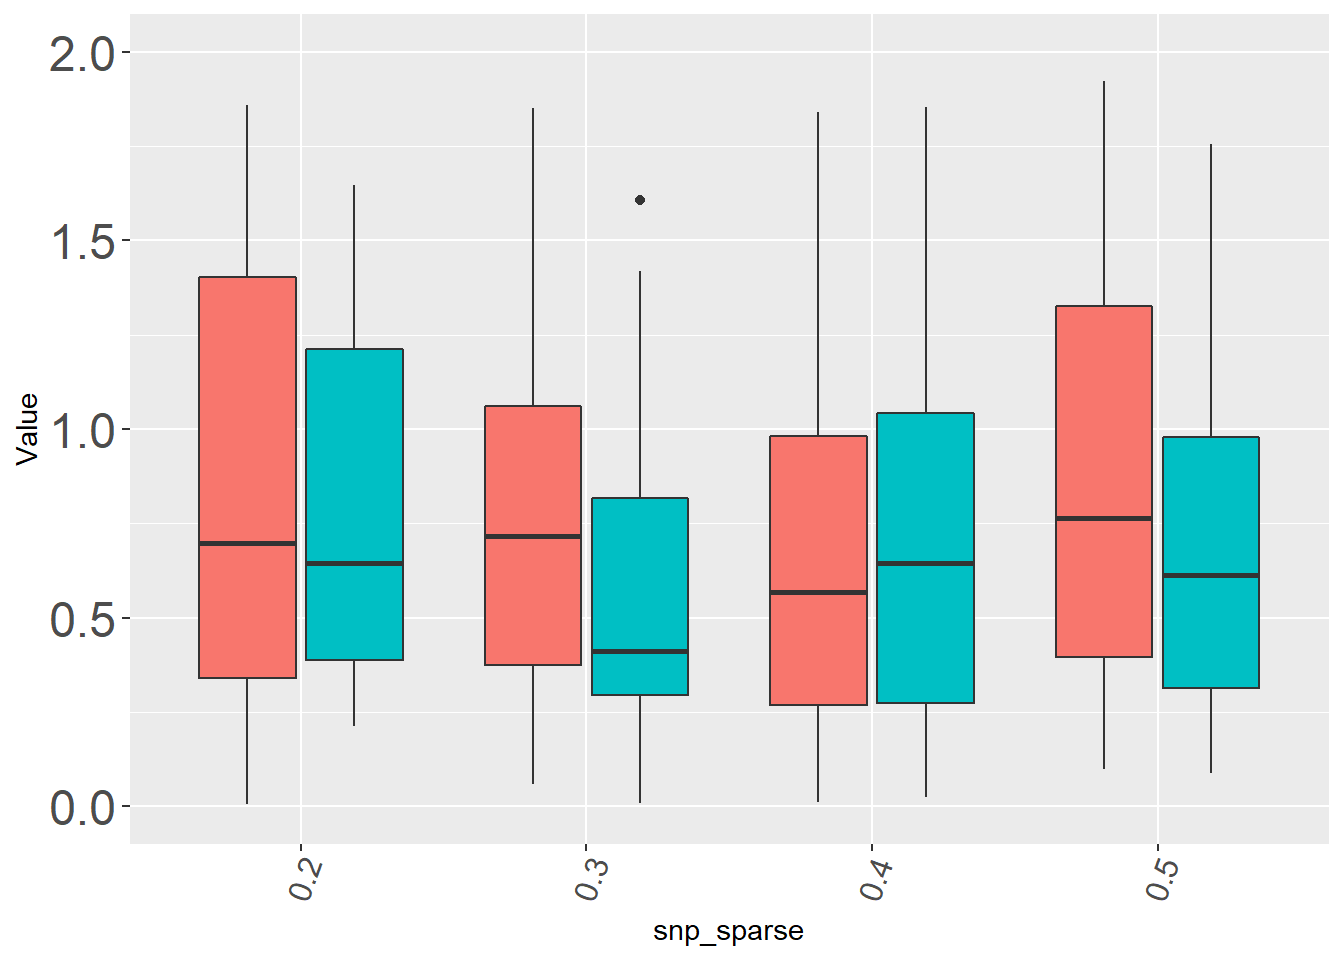
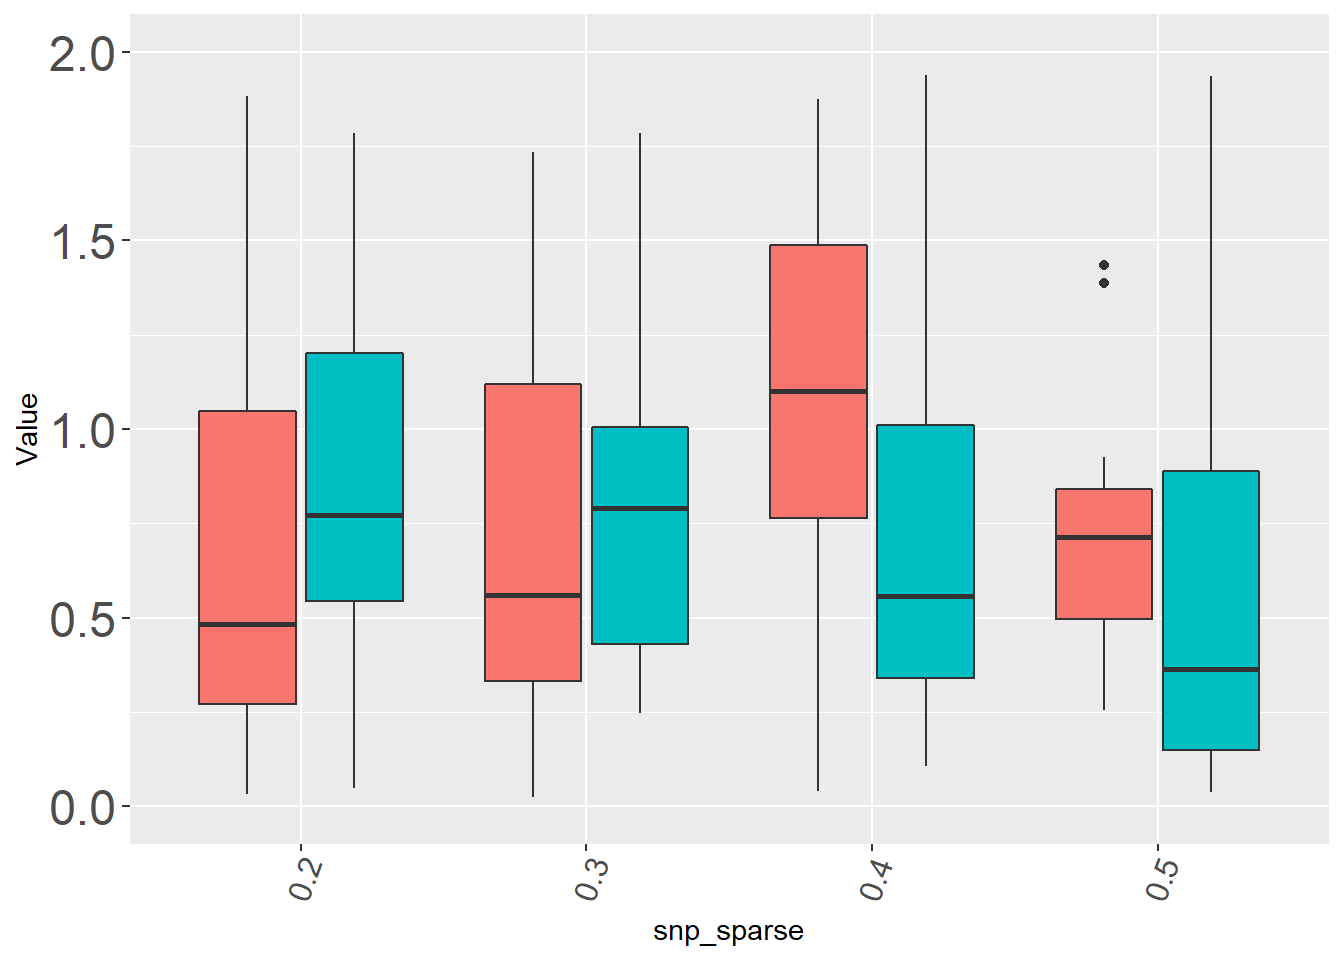
update cn note
update cn note

diff --git a/content/cn_note/Rplot.html b/content/cn_note/Rplot.html
@@ -1,5 +1,5 @@
 ---
-title: "A ggplot2 Tutorial for Beautiful Plotting in R"
+title: "R ggplot2 绘图二"
 author: "Cédric"
 date: 2019-08-05
 layout: post
@@ -28,30 +28,17 @@ editor_options:
 </div>
 <div id="data" class="section level2">
 <h2>The Dataset</h2>
-<pre class="r"><code>chic &lt;- readr::read_csv(&quot;https://raw.githubusercontent.com/Z3tt/R-Tutorials/master/ggplot2/chicago-nmmaps.csv&quot;)</code></pre>
-<pre class="r"><code>tibble::glimpse(chic)</code></pre>
-<pre><code>## Rows: 1,461
-## Columns: 10
-## $ city     &lt;chr&gt; &quot;chic&quot;, &quot;chic&quot;, &quot;chic&quot;, &quot;chic&quot;, &quot;chic&quot;, &quot;chic&quot;, &quot;chic&quot;, &quot;chic&quot;, &quot;chic&quot;, &quot;chic&quot;, &quot;chic&quot;, &quot;chic&quot;, &quot;chic&quot;, &quot;chic&quot;, &quot;chic&quot;, &quot;chic&quot;, &quot;chic&quot;, &quot;chic&quot;, &quot;chic&quot;, &quot;chic&quot;, &quot;chic&quot;, &quot;chic&quot;, &quot;chic&quot;, &quot;chic&quot;, &quot;chic&quot;, &quot;chic&quot;, &quot;chic&quot;, &quot;chic&quot;, &quot;chic&quot;, &quot;chic&quot;, &quot;chic&quot;, &quot;chic&quot;, &quot;chic&quot;, &quot;chic&quot;, &quot;chic&quot;, &quot;chic&quot;, &quot;chic&quot;, &quot;chic&quot;, &quot;chic&quot;, &quot;chic&quot;, &quot;chic&quot;, &quot;chic&quot;, &quot;chic&quot;, &quot;chic&quot;, &quot;chic&quot;, &quot;chic&quot;, &quot;chic&quot;, &quot;chic&quot;, &quot;chic&quot;, &quot;chic&quot;, &quot;chic&quot;, &quot;chic&quot;, &quot;chic&quot;, &quot;chic&quot;, &quot;chic&quot;, &quot;chic&quot;, &quot;chic&quot;, &quot;chic&quot;, &quot;chic&quot;, &quot;chic&quot;, &quot;chic&quot;, &quot;chic&quot;, &quot;chic&quot;, &quot;chic&quot;, &quot;chic&quot;, &quot;chic&quot;, &quot;chic&quot;, &quot;chic&quot;, &quot;chic&quot;, &quot;chic&quot;, &quot;chic&quot;, &quot;chic&quot;, &quot;chic&quot;, &quot;chic&quot;, &quot;chic&quot;, &quot;chic&quot;, &quot;chic&quot;, &quot;chic&quot;, &quot;chic&quot;, &quot;chic&quot;, &quot;chic&quot;, &quot;chic&quot;, &quot;chic&quot;, &quot;chic&quot;, &quot;chic&quot;, &quot;~
-## $ date     &lt;date&gt; 1997-01-01, 1997-01-02, 1997-01-03, 1997-01-04, 1997-01-05, 1997-01-06, 1997-01-07, 1997-01-08, 1997-01-09, 1997-01-10, 1997-01-11, 1997-01-12, 1997-01-13, 1997-01-14, 1997-01-15, 1997-01-16, 1997-01-17, 1997-01-18, 1997-01-19, 1997-01-20, 1997-01-21, 1997-01-22, 1997-01-23, 1997-01-24, 1997-01-25, 1997-01-26, 1997-01-27, 1997-01-28, 1997-01-29, 1997-01-30, 1997-01-31, 1997-02-01, 1997-02-02, 1997-02-03, 1997-02-04, 1997-02-05, 1997-02-06, 1997-02-07, 1997-02-08, 1997-02-09, 1997-02-10, 1997-02-11, 1997-02-12, 1997-02-13, 1997-02-14, 1997-02-15, 1997-02-16, 1997-02-17, 1997-02-18, 1997-02-19, 1997-02-20, 1997-02-21, 1997-02-22, 1997-02-23, 1997-02-24, 1997-02-25, 1997-02-~
-## $ death    &lt;dbl&gt; 137, 123, 127, 146, 102, 127, 116, 118, 148, 121, 110, 127, 129, 151, 128, 132, 116, 142, 124, 124, 127, 121, 134, 120, 109, 109, 115, 105, 114, 120, 117, 126, 97, 96, 119, 125, 116, 118, 121, 114, 111, 107, 127, 98, 104, 122, 124, 120, 106, 103, 139, 133, 109, 121, 111, 105, 107, 123, 124, 125, 108, 114, 104, 120, 134, 101, 102, 125, 119, 115, 121, 112, 127, 99, 125, 115, 113, 105, 113, 120, 105, 119, 147, 123, 108, 117, 110, 106, 96, 119, 119, 99, 120, 130, 97, 105, 102, 104, 137, 111, 108, 96, 100, 105, 128, 120, 98, 118, 94, 117, 121, 110, 110, 108, 121, 114, 116, 109, 123, 115, 101, 118, 100, 126, 126, 121, 114, 112, 111, 111, 107, 124, 104, 107, 109, 133, 108, 109, 9~
-## $ temp     &lt;dbl&gt; 36.0, 45.0, 40.0, 51.5, 27.0, 17.0, 16.0, 19.0, 26.0, 16.0, 1.5, 1.0, 3.0, 10.0, 19.0, 9.5, -3.0, 0.0, 14.0, 31.0, 35.0, 36.5, 26.0, 32.0, 14.5, 11.0, 17.0, 2.0, 8.0, 16.5, 31.5, 35.0, 36.5, 30.0, 34.5, 30.0, 26.0, 25.5, 25.5, 26.0, 27.0, 23.5, 21.0, 20.5, 25.5, 20.0, 18.5, 30.0, 48.5, 37.5, 35.5, 36.0, 26.0, 28.0, 21.5, 25.5, 36.5, 34.5, 37.5, 45.5, 35.0, 33.5, 38.0, 33.0, 26.5, 35.5, 39.0, 37.0, 44.0, 37.0, 33.5, 37.5, 26.5, 19.0, 24.5, 45.0, 33.5, 35.5, 46.0, 53.5, 37.5, 32.5, 33.0, 40.5, 44.0, 60.5, 55.5, 43.5, 37.5, 38.5, 44.5, 53.0, 59.5, 62.5, 60.5, 45.0, 34.0, 28.5, 30.0, 30.5, 33.5, 33.5, 38.5, 41.5, 49.0, 43.0, 40.5, 40.0, 45.5, 49.0, 45.0, 43.0, 48.5, 47.5, 48.0~
-## $ dewpoint &lt;dbl&gt; 37.50000, 47.25000, 38.00000, 45.50000, 11.25000, 5.75000, 7.00000, 17.75000, 24.00000, 5.37500, -6.62500, -8.87500, 1.50000, 11.50000, 23.25000, -9.75000, -10.37500, -4.12500, 22.62500, 27.25000, 41.62500, 20.75000, 18.75000, 29.50000, -1.37500, 17.12500, 8.37500, -6.37500, 11.00000, 16.37500, 33.75000, 29.66667, 29.62500, 28.00000, 32.00000, 24.25000, 21.87500, 23.37500, 22.50000, 21.00000, 21.75000, 19.50000, 11.60000, 16.37500, 23.00000, 15.25000, 8.12500, 32.62500, 41.37500, 27.50000, 44.12500, 29.62500, 24.25000, 14.62500, 10.87500, 27.12500, 35.00000, 30.25000, 36.00000, 44.00000, 27.37500, 29.37500, 28.87500, 28.62500, 13.37500, 35.25000, 28.25000, 32.62500, 33.250~
-## $ pm10     &lt;dbl&gt; 13.052268, 41.948600, 27.041751, 25.072573, 15.343121, 9.364655, 20.228428, 33.134819, 12.118381, 24.761534, 18.126151, 16.013770, 34.991079, 64.945403, 26.941955, 27.022906, 18.837025, 31.859740, 30.923168, 19.894566, 27.882017, 18.508762, 11.845698, 26.687346, 16.612825, 21.641455, 22.672498, 28.101180, 51.776607, 48.741462, 24.686329, 23.784943, 27.762150, 21.600928, 17.050900, 10.157749, 15.943086, 33.010704, 14.955909, 30.410449, 23.914813, 22.972347, 12.712336, 22.719836, 35.676001, 28.373076, 15.662430, 38.744847, 27.597166, 17.612211, 29.768805, 7.340321, 7.856717, 7.908915, 17.834350, 41.124012, 34.052583, 19.749350, 26.126759, 28.129506, 9.940940, 15.980970, 26.0~
-## $ o3       &lt;dbl&gt; 5.659256, 5.525417, 6.288548, 7.537758, 20.760798, 14.940874, 11.920985, 8.678477, 13.355892, 10.448264, 15.866094, 15.115290, 9.381068, 8.029508, 7.066111, 20.113023, 15.363898, 12.713223, 9.616133, 16.840369, 12.758676, 21.024213, 18.665072, 7.131938, 17.167861, 9.960118, 9.167350, 13.613967, 7.945009, 7.660619, 11.882608, 16.676182, 12.032368, 21.849559, 10.887549, 14.894031, 15.957824, 14.391243, 19.749645, 12.397635, 14.193562, 20.492388, 23.091993, 20.171005, 15.453240, 19.526661, 20.019234, 17.297562, 27.013275, 19.055436, 6.890252, 16.313610, 23.015853, 24.990318, 18.939318, 12.526243, 7.962753, 13.194153, 15.178614, 13.860717, 30.992349, 29.260852, 15.413875, 17.7~
-## $ time     &lt;dbl&gt; 3654, 3655, 3656, 3657, 3658, 3659, 3660, 3661, 3662, 3663, 3664, 3665, 3666, 3667, 3668, 3669, 3670, 3671, 3672, 3673, 3674, 3675, 3676, 3677, 3678, 3679, 3680, 3681, 3682, 3683, 3684, 3685, 3686, 3687, 3688, 3689, 3690, 3691, 3692, 3693, 3694, 3695, 3696, 3697, 3698, 3699, 3700, 3701, 3702, 3703, 3704, 3705, 3706, 3707, 3708, 3709, 3710, 3711, 3712, 3713, 3714, 3715, 3716, 3717, 3718, 3719, 3720, 3721, 3722, 3723, 3724, 3725, 3726, 3727, 3728, 3729, 3730, 3731, 3732, 3733, 3734, 3735, 3736, 3737, 3738, 3739, 3740, 3741, 3742, 3743, 3744, 3745, 3746, 3747, 3748, 3749, 3750, 3751, 3752, 3753, 3754, 3755, 3756, 3757, 3758, 3759, 3760, 3761, 3762, 3763, 3764, 3765, 3766, 376~
-## $ season   &lt;chr&gt; &quot;Winter&quot;, &quot;Winter&quot;, &quot;Winter&quot;, &quot;Winter&quot;, &quot;Winter&quot;, &quot;Winter&quot;, &quot;Winter&quot;, &quot;Winter&quot;, &quot;Winter&quot;, &quot;Winter&quot;, &quot;Winter&quot;, &quot;Winter&quot;, &quot;Winter&quot;, &quot;Winter&quot;, &quot;Winter&quot;, &quot;Winter&quot;, &quot;Winter&quot;, &quot;Winter&quot;, &quot;Winter&quot;, &quot;Winter&quot;, &quot;Winter&quot;, &quot;Winter&quot;, &quot;Winter&quot;, &quot;Winter&quot;, &quot;Winter&quot;, &quot;Winter&quot;, &quot;Winter&quot;, &quot;Winter&quot;, &quot;Winter&quot;, &quot;Winter&quot;, &quot;Winter&quot;, &quot;Winter&quot;, &quot;Winter&quot;, &quot;Winter&quot;, &quot;Winter&quot;, &quot;Winter&quot;, &quot;Winter&quot;, &quot;Winter&quot;, &quot;Winter&quot;, &quot;Winter&quot;, &quot;Winter&quot;, &quot;Winter&quot;, &quot;Winter&quot;, &quot;Winter&quot;, &quot;Winter&quot;, &quot;Winter&quot;, &quot;Winter&quot;, &quot;Winter&quot;, &quot;Winter&quot;, &quot;Winter&quot;, &quot;Winter&quot;, &quot;Winter&quot;, &quot;Winter&quot;, &quot;Winter&quot;, &quot;Winter&quot;, &quot;Winter&quot;, &quot;Winter&quot;, &quot;Winter&quot;, &quot;Winter&quot;, &quot;Winter&quot;, &quot;Winter&quot;, &quot;Winter&quot;, &quot;Winter&quot;, &quot;Winter&quot;, &quot;Winter&quot;, &quot;Winter&quot;, &quot;Winter&quot;, &quot;Winter&quot;, &quot;~
-## $ year     &lt;dbl&gt; 1997, 1997, 1997, 1997, 1997, 1997, 1997, 1997, 1997, 1997, 1997, 1997, 1997, 1997, 1997, 1997, 1997, 1997, 1997, 1997, 1997, 1997, 1997, 1997, 1997, 1997, 1997, 1997, 1997, 1997, 1997, 1997, 1997, 1997, 1997, 1997, 1997, 1997, 1997, 1997, 1997, 1997, 1997, 1997, 1997, 1997, 1997, 1997, 1997, 1997, 1997, 1997, 1997, 1997, 1997, 1997, 1997, 1997, 1997, 1997, 1997, 1997, 1997, 1997, 1997, 1997, 1997, 1997, 1997, 1997, 1997, 1997, 1997, 1997, 1997, 1997, 1997, 1997, 1997, 1997, 1997, 1997, 1997, 1997, 1997, 1997, 1997, 1997, 1997, 1997, 1997, 1997, 1997, 1997, 1997, 1997, 1997, 1997, 1997, 1997, 1997, 1997, 1997, 1997, 1997, 1997, 1997, 1997, 1997, 1997, 1997, 1997, 1997, 199~</code></pre>
+<pre class="rmd"><code>chic &lt;- readr::read_csv(&quot;https://raw.githubusercontent.com/Z3tt/R-Tutorials/master/ggplot2/chicago-nmmaps.csv&quot;)</code></pre>
+<pre class="rmd"><code>tibble::glimpse(chic)</code></pre>
 <p>load ggplot2 package</p>
 </div>
 <div id="ggplot" class="section level2">
 <h2>Default ggplot</h2>
-<pre class="r"><code>library(tidyverse)
+<pre class="rmd"><code>library(tidyverse)
 ggplot(chic, aes(x = date, y = temp)) +
   geom_point(color = &quot;firebrick&quot;) +
   labs(x = &quot;Year&quot;, y = expression(paste(&quot;Temperature (&quot;, degree ~ F, &quot;)&quot;^&quot;(Hey, why should we use metric units?!)&quot;)))</code></pre>
-<p><img src="/cn_note/Rplot_files/figure-html/unnamed-chunk-3-1.png" width="100%" /></p>
-<pre class="r"><code>library(tidyverse)
+<pre class="rmd"><code>library(tidyverse)
 
 chic_high &lt;- dplyr::filter(chic, temp &gt; 25, o3 &gt; 20)
 
@@ -60,21 +47,18 @@ ggplot(chic_high, aes(x = temp, y = o3)) +
   labs(x = &quot;Temperature higher than 25°F&quot;,
        y = &quot;Ozone higher than 20 ppb&quot;) +
   expand_limits(x = 0, y = 0)</code></pre>
-<p><img src="/cn_note/Rplot_files/figure-html/unnamed-chunk-4-1.png" width="100%" /></p>
 </div>
 <div id="pipe" class="section level2">
 <h2>Pipeline operator %&gt;%</h2>
-<pre class="r"><code>1 %&gt;% sin</code></pre>
-<pre><code>## [1] 0.841471</code></pre>
+<pre class="rmd"><code>1 %&gt;% sin</code></pre>
 </div>
 <div id="revise-title-of-legend" class="section level2">
 <h2>Revise title of legend</h2>
-<pre class="r"><code>ggplot(chic, aes(x = date, y = temp, color = season)) +
+<pre class="rmd"><code>ggplot(chic, aes(x = date, y = temp, color = season)) +
   geom_point() +
   labs(x = &quot;Year&quot;, y = &quot;Temperature (°F)&quot;,
        color = &quot;Seasons\nindicated\nby colors:&quot;) +
   theme(legend.title = element_text(family = &quot;Playfair&quot;,
                                     color = &quot;chocolate&quot;,
                                     size = 14, face = &quot;bold&quot;))</code></pre>
-<p><img src="/cn_note/Rplot_files/figure-html/unnamed-chunk-6-1.png" width="100%" /></p>
 </div>

diff --git a/content/cn_note/R_other_note.html b/content/cn_note/R_other_note.html
@@ -1,0 +1,44 @@
+---
+title: "R语言零碎笔记"
+author: "刘伟"
+date: '2021-04-12'
+output: pdf_document
+---
+
+
+
+<p>## Table of Content {#toc}</p>
+<ul>
+<li><a href="#ordiPlot">普通plot绘图</a></li>
+<li><a href="#ggplot">ggplot绘图</a></li>
+<li><a href="#yscale">Work on scale of axis</a></li>
+<li><a href="#layout">Work on layout</a></li>
+</ul>
+<div id="r向xlsx中输出多个sheets" class="section level2">
+<h2>R向xlsx中输出多个sheets</h2>
+<p>直接稍微修改下面的code即可，方便快捷。注意输入sheet前数据务必先转化为data frame格式。</p>
+<pre class="rmd"><code>for(i in 1:9){
+  geneName &lt;- row.names(FClist[[i]])
+  dat &lt;- cbind(PvalList[[i]][geneName,], FClist[[i]][,1])
+  dat &lt;- dat[order(dat[,2]),]
+  dat &lt;- as.data.frame(dat)
+  colnames(dat) &lt;- paste0(cellnames[i], c(&#39;t value&#39;,&#39; Pr(&gt;|t|)&#39;,&#39; FDR&#39;,&#39; avg_log2FC&#39;) )
+  xlsx::write.xlsx(dat, file=&#39;CITE-Seq//DEGs.xlsx&#39;, sheetName = paste0(&#39;sheet&#39;, i), append = T)
+}</code></pre>
+</div>
+<div id="快速选择前n个差异表达基因的信息" class="section level2">
+<h2>快速选择前n个差异表达基因的信息</h2>
+<pre class="rmd"><code> ## DEG analysis based on the annotated labels
+  seu &lt;- CreateSeuratObject(counts=datList$counts)
+  # standard log-normalization
+  seu &lt;- NormalizeData(seu)
+  seu &lt;- ScaleData(seu)
+  Idents(seu) &lt;- factor(y)
+  dat &lt;- FindAllMarkers(seu)
+  library(dplyr)
+  # Efna5,Otx2 ,Wnt2b,Wnt3a,Hes3
+  dat %&gt;%
+    group_by(cluster) %&gt;%
+    top_n(n = 10, wt = avg_log2FC) -&gt; top10
+  markerList_true[[i]] &lt;- top10</code></pre>
+</div>

diff --git a/content/cn_note/RplotLearn.html b/content/cn_note/RplotLearn.html
@@ -1,5 +1,5 @@
 ---
-title: "R绘制漂亮的图"
+title: "R绘制漂亮的图一"
 author: "刘伟"
 date: '2021-04-12'
 output: pdf_document
@@ -87,10 +87,10 @@ abline(h=1, lty=3,col=&#39;green4&#39;)</code></pre>
   data$snp_sparse =  c(rep(xname, each = n1), rep(xname, each = n2))
   return(data)
 }
-library(&quot;mvtnorm&quot;)
-library(&quot;ggplot2&quot;)</code></pre>
-<pre><code>## Warning: 程辑包&#39;ggplot2&#39;是用R版本4.0.4 来建造的</code></pre>
-<pre class="r"><code>n1 &lt;- 50;
+library(&quot;mvtnorm&quot;)</code></pre>
+<pre><code>## Warning: package &#39;mvtnorm&#39; was built under R version 4.0.5</code></pre>
+<pre class="r"><code>library(&quot;ggplot2&quot;)
+n1 &lt;- 50;
 n2 &lt;- 100;
 p &lt;- 4;
 mat1 &lt;- rmvnorm(n1, mean = rep(0, p), sigma = diag(p), method = &quot;chol&quot;);
@@ -103,7 +103,7 @@ ggplot(dat, aes(x=snp_sparse, y=Value, fill=method)) + geom_boxplot(aes(fill=met
   theme(axis.text.x = element_text(size = 12, angle=70, vjust=0.6)
 ,axis.text.y = element_text(size = 18),plot.title = element_text(hjust = 30,vjust=-40,size=14) 
 ,legend.position=&quot;none&quot;) +ylim(c(0,2))</code></pre>
-<pre><code>## Warning: Removed 195 rows containing non-finite values (stat_boxplot).</code></pre>
+<pre><code>## Warning: Removed 216 rows containing non-finite values (stat_boxplot).</code></pre>
 <p><img src="/cn_note/RplotLearn_files/figure-html/unnamed-chunk-6-1.png" width="672" /></p>
 <p>2 利用ggplot2画折线图</p>
 <pre class="r"><code>elboPlot &lt;- function(elbo_seq){

diff --git a/content/cn_note/R与Cpp混合编程.html b/content/cn_note/R与Cpp混合编程.html
@@ -1,7 +1,7 @@
 ---
-title: "R与Cpp混合编程"
+title: "R与Cpp混合编程一"
 author: "刘伟"
-date: '2021-01-29'
+date: '2022-01-19'
 layout: post
 showtoc: true
 tags: ["R", "Rcpp", "Armadillo", "BH"]

diff --git a/content/cn_note/R与Armadillo混合编程.html b/content/cn_note/R与Armadillo混合编程.html
@@ -1,5 +1,5 @@
 ---
-title: "R与Armadillo混合编程"
+title: "R与Cpp混合编程二"
 author: "刘伟"
 date: '2021-01-29'
 layout: post
